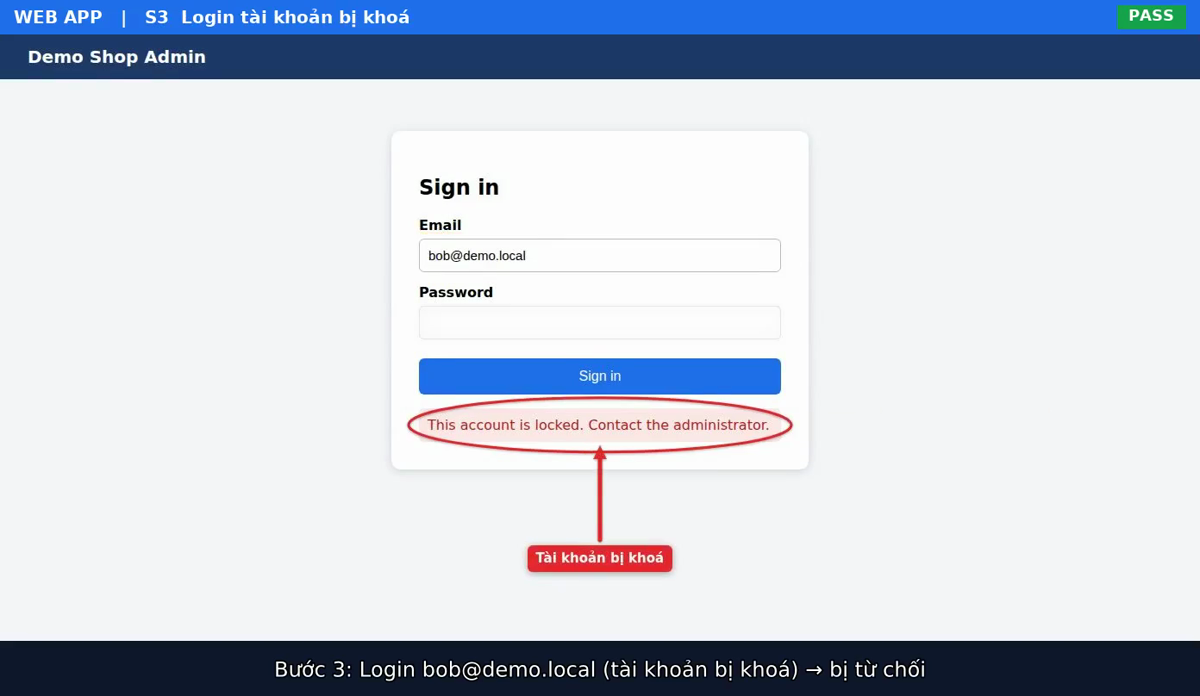
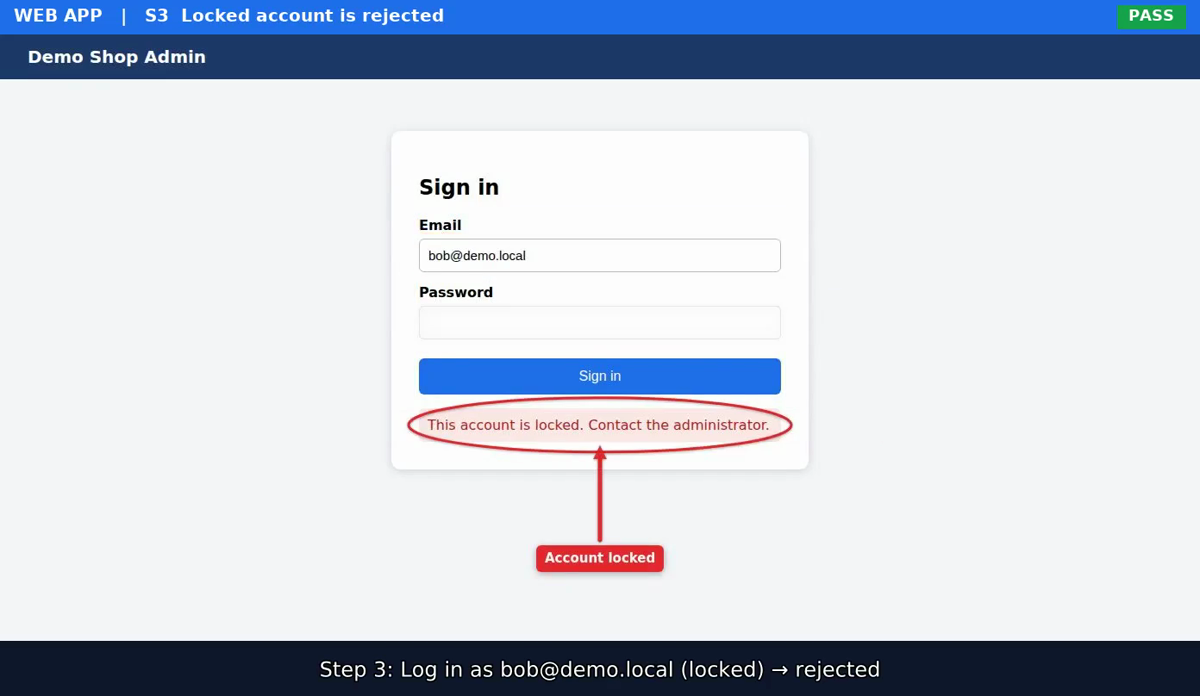
docs: English demo scenario and media; fix README Mermaid diagram (#4)
- examples/demo/login-lock.yaml titles, subtitles and labels in English
- regenerate demo.gif and stills from the English recording
- Mermaid: quoted labels instead of dotted edges with special characters
- bsk open: wait between stale-session retries and fall back to a run-unique scope

diff --git a/src/tirai/bsk.py b/src/tirai/bsk.py
@@ -24,16 +24,19 @@ class Bsk:
 
     def open_session(self, url, scope):
         """Start a fresh scoped session (own Agent Window) on `url`; returns the first tab id."""
-        for attempt in range(2):
-            p = run_text([_bsk(), "open", url, "--scope", scope, "--json"], timeout=90)
+        # The daemon can keep a closed session bound to the scope for a moment ("session X unknown").
+        # Close it and retry; as a last resort use a scope unique to this run.
+        scopes = [scope, scope, f"{scope}-{int(time.time())}"]
+        for attempt, sc in enumerate(scopes):
+            p = run_text([_bsk(), "open", url, "--scope", sc, "--json"], timeout=90)
             if p.returncode == 0:
                 break
             err = p.stderr.strip() or p.stdout.strip()
             stale = re.search(r"session (\w+) unknown", err)
-            if attempt or not stale:
+            if not stale or attempt == len(scopes) - 1:
                 raise BskError(f"bsk open failed: {err}")
-            # A previous run's session can linger in the daemon after its window closed; drop it and retry.
             run_text([_bsk(), "close", "--session", stale.group(1), "--json"], timeout=60)
+            time.sleep(1 + attempt)
         data = json.loads(p.stdout)
         self.session = data["session_id"]
         return data["tab_id"]

diff --git a/README.md b/README.md
@@ -98,18 +98,18 @@ Every path and tool can be overridden — see [configuration](docs/configuration
 
 ```mermaid
 flowchart LR
-    S[scenario.yaml] --> D[Dry-run<br>all steps must pass]
-    D --> R[Record<br>one segment per tab]
-    R --> C[Compose<br>ffmpeg]
-    C --> O[final.mp4<br>subtitles.srt<br>report.md]
+    S["scenario.yaml"] --> D["Dry-run<br/>all steps must pass"]
+    D --> R["Record<br/>one segment per tab"]
+    R --> C["Compose<br/>ffmpeg"]
+    C --> O["final.mp4<br/>subtitles.srt<br/>report.md"]
 
-    subgraph Browser [Real Chrome / Edge via BrowserSkill]
-        A[App tab]
-        B[DBX tab]
+    subgraph Browser["Real Chrome / Edge via BrowserSkill"]
+        A["App tab"]
+        B["DBX tab"]
     end
-    D -. fill · click · expect .-> Browser
-    R -. bsk video + annotate.js .-> Browser
-    R -. read-only SQL .-> DB[(Database)]
+    D -->|"fill, click, expect"| Browser
+    R -->|"bsk video, annotate.js"| Browser
+    R -->|"read-only SQL"| DB[("Database")]
 ```
 
 TIRAI is the orchestration layer. It does not reinvent browser automation or a database UI:
